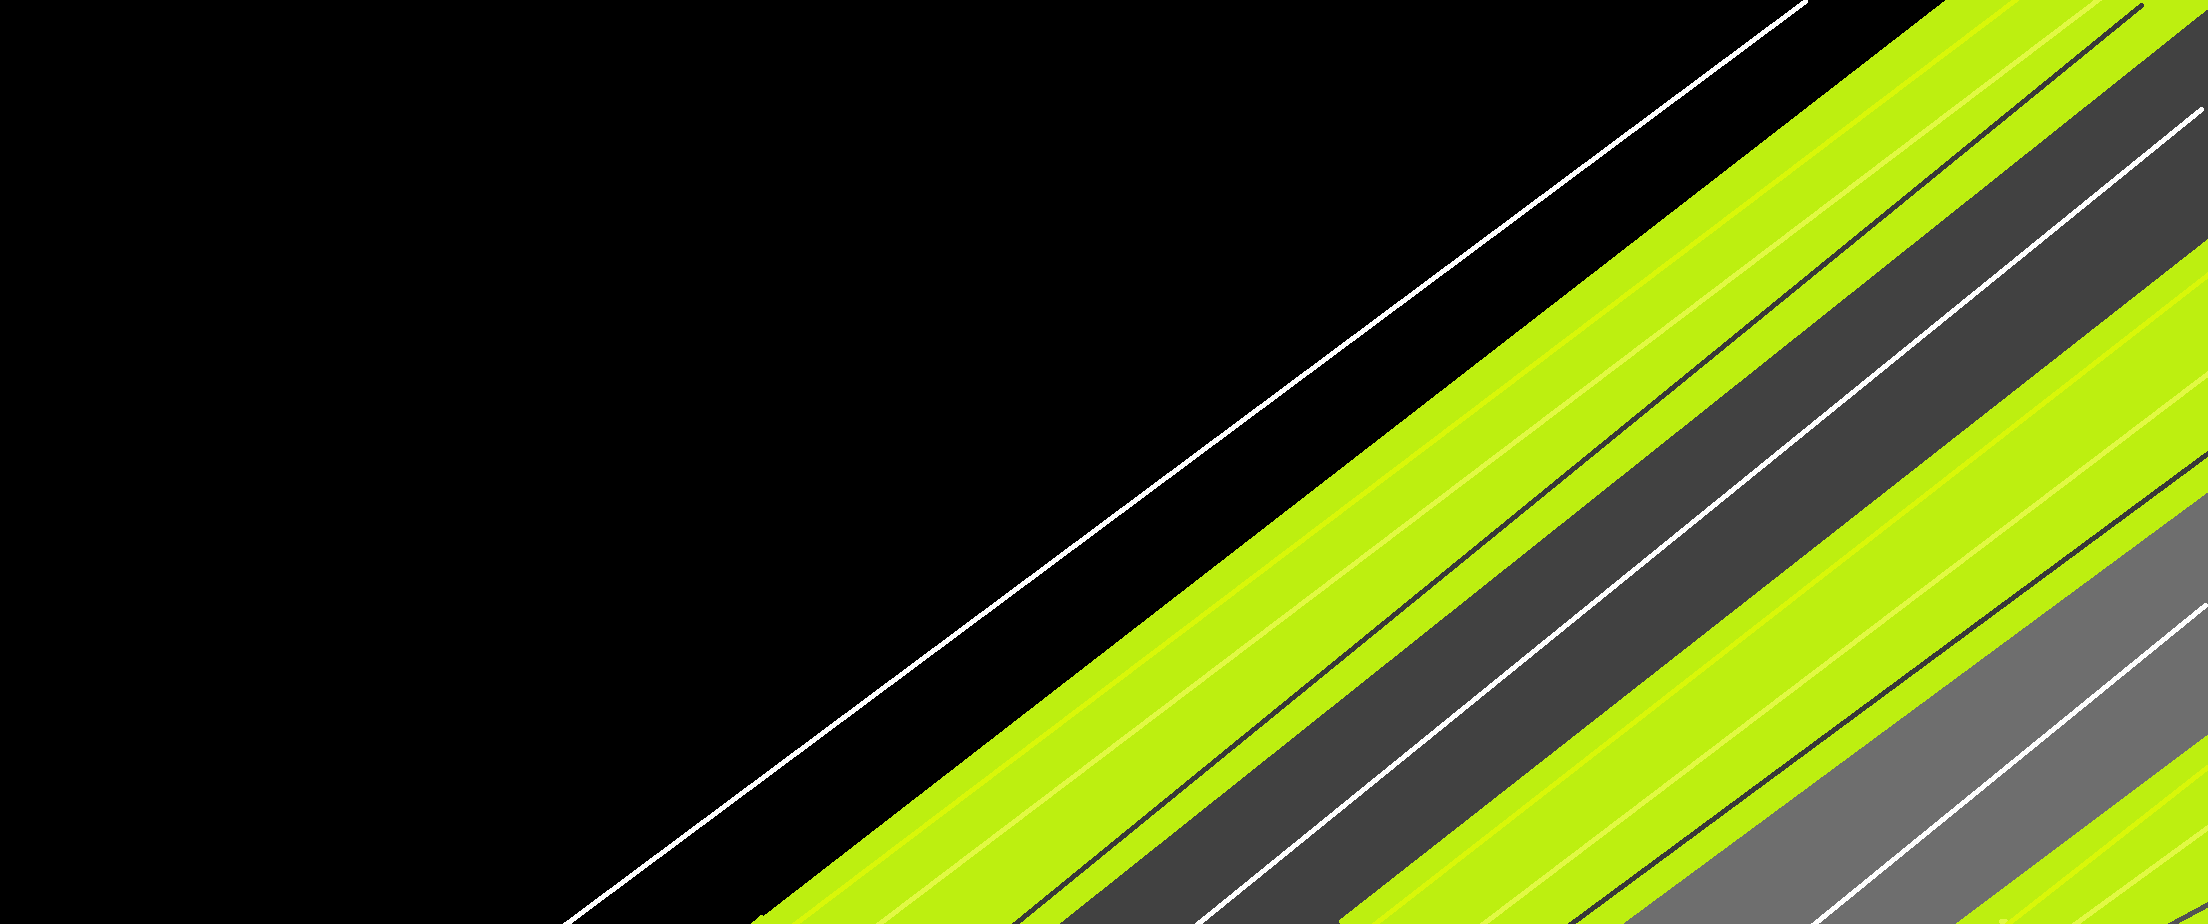
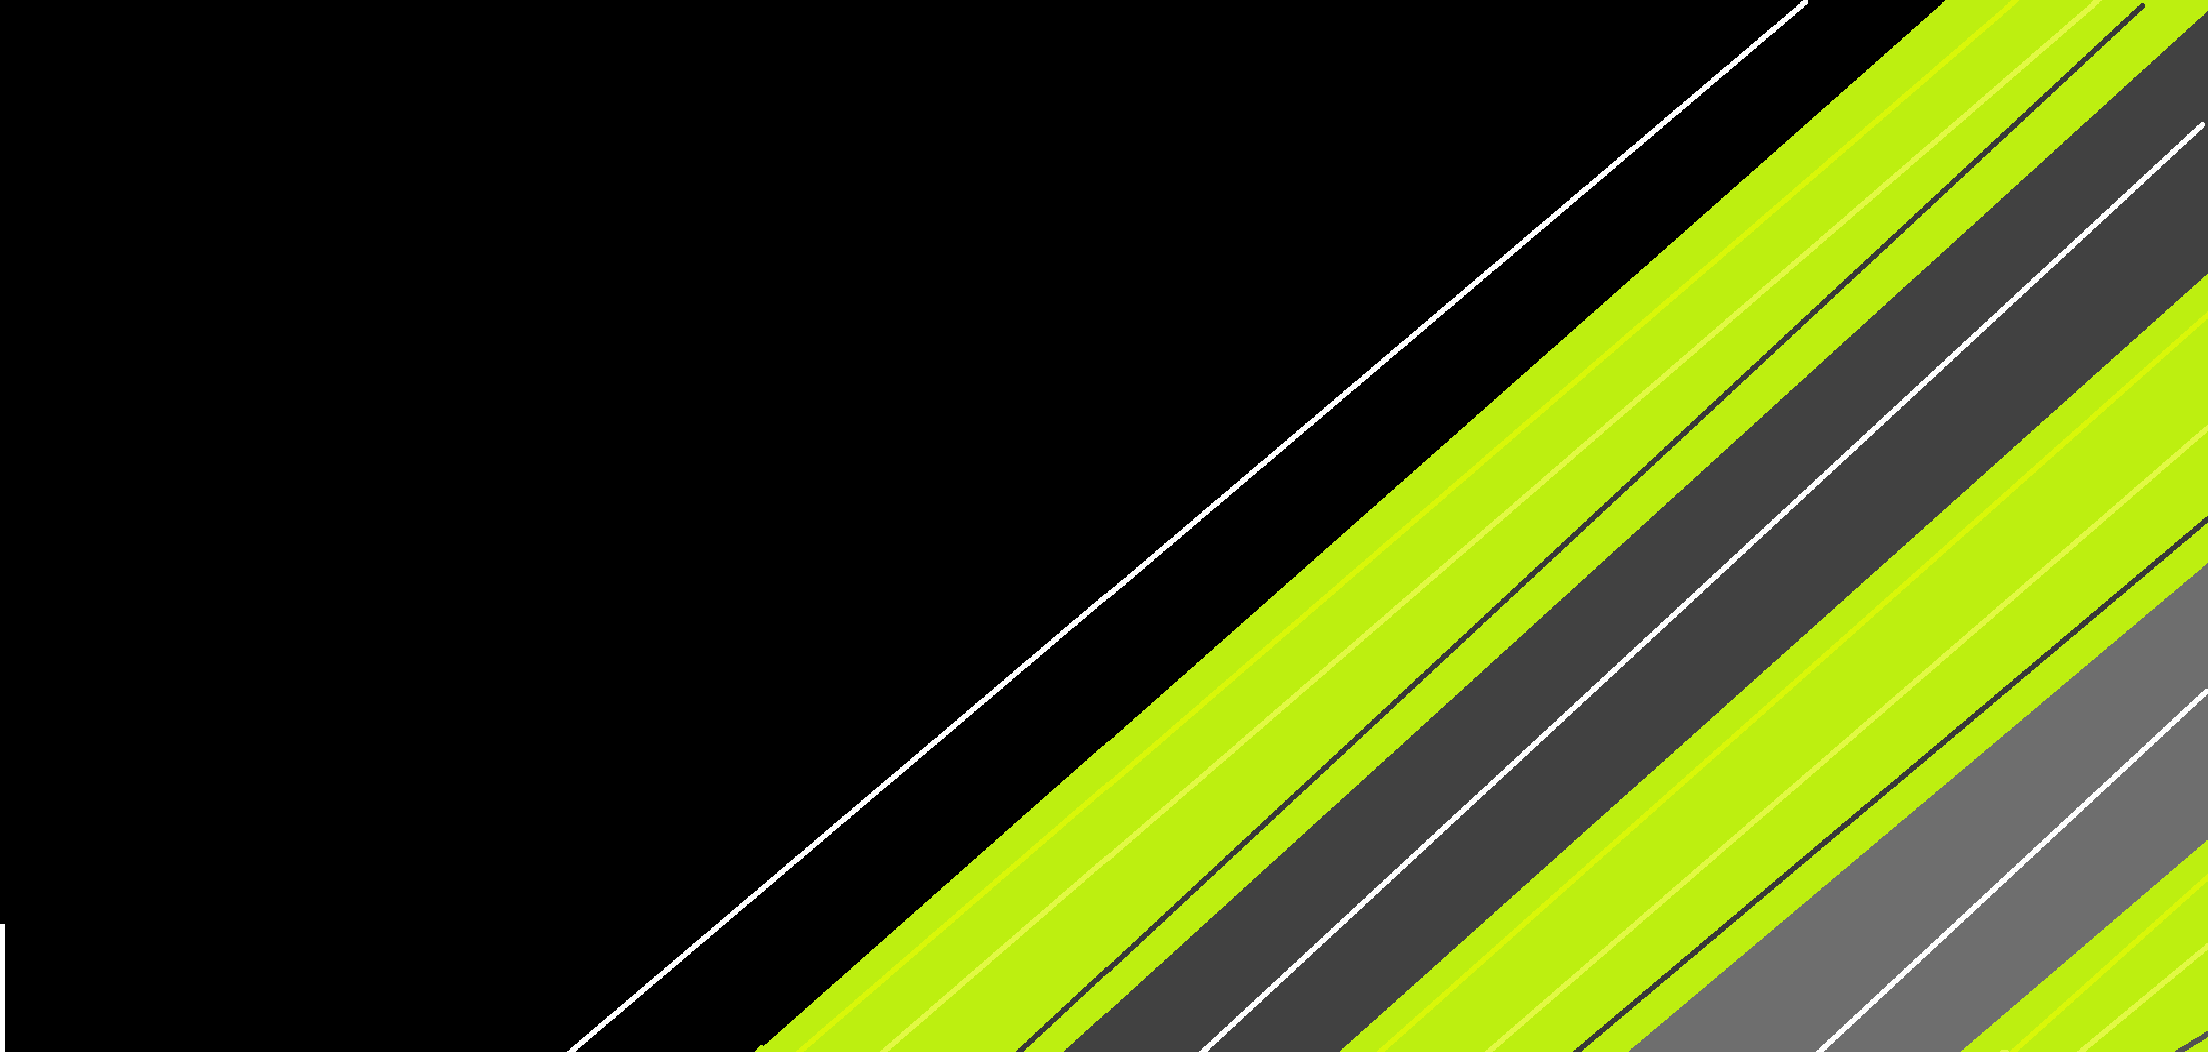
ajio

diff --git a/Gato/productos.html b/Gato/productos.html
@@ -19,7 +19,7 @@
                     <a class="nav-link" href="redes.html">REDES</a>
                     <a class="nav-link" href="/Gato/productos.html">PRODUCTOS</a>
                     <a class="nav-link" href="#"></a>
-                    <a class="nav-link"href="/Gato/compra.html">COMPRAS</a>
+                    <a class="nav-link" href="/Gato/compra.html">COMPRAS</a>
                 </div>
             </div>
         </div>

diff --git a/Gato/index.html b/Gato/index.html
@@ -9,7 +9,7 @@
 		<style>
 			body{
     background-color: rgb(0, 0, 0);
-    background-image: url("img/FONDOGOD.png");;
+    background-image: url("/Gato/img/2dofondo.png");;
     background-repeat:repeat;;
     background-size: cover;
 }
